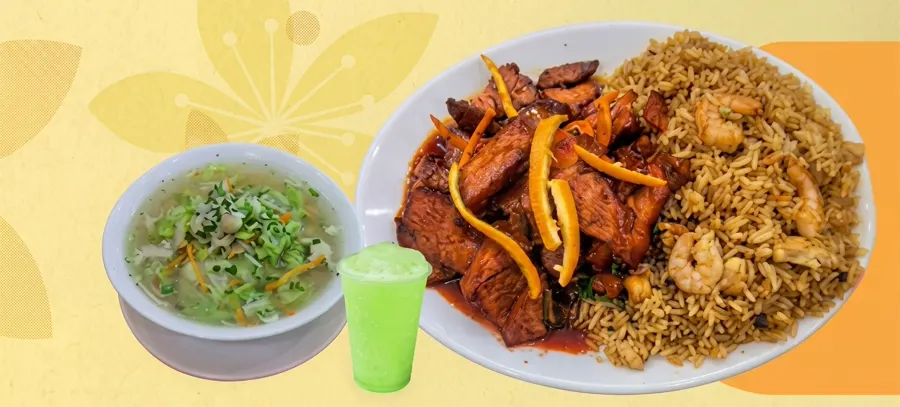
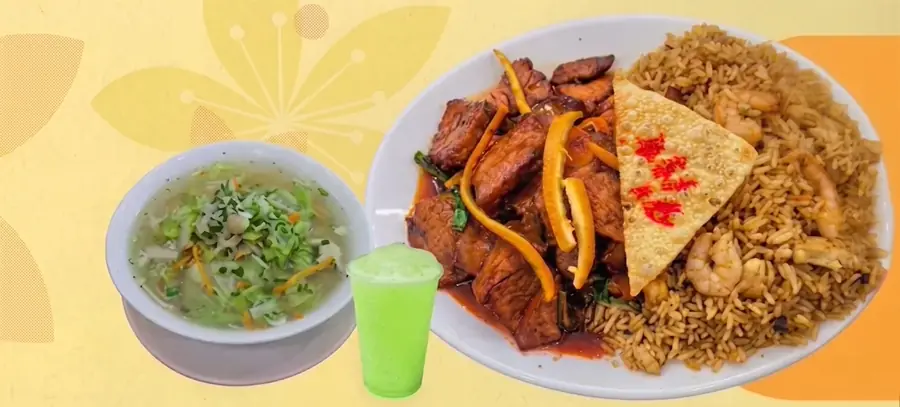
Update chifa-excelencia catalog, link basic plan demo to chifa, and add/update combo images

diff --git a/data/catalogs/chifa-excelencia.ts b/data/catalogs/chifa-excelencia.ts
@@ -70,14 +70,14 @@ export const chifaExcelencia: Catalog = {
       { id: 'combo-9', name: 'COMBO #9', price: 8.90, description: 'Consomé de pollo (o sopa wantán), Pollo agridulce, ½ Chaulafán especial, Wantán frito, Limonada (o cola).', image: '/img/combo-9.webp' },
       { id: 'combo-10', name: 'COMBO #10', price: 9.50, description: 'Consomé de pollo (o sopa wantán), Chancho en salsa de naranja, ½ Chaulafán especial, Wantán frito, Limonada (o cola).', image: '/img/combo-10.webp' },
       { id: 'combo-11', name: 'COMBO #11', price: 9.50, description: 'Consomé de pollo (o sopa wantán), Pollo en salsa de naranja, ½ Chaulafán especial, Wantán frito, Limonada (o cola).', image: '/img/combo-11.webp' },
-      { id: 'combo-12', name: 'COMBO #12', price: 9.80, description: 'Consomé de pollo (o sopa wantán), ½ Mixto especial, Wantán frito, Limonada (o cola).', image: '' },
+      { id: 'combo-12', name: 'COMBO #12', price: 9.80, description: 'Consomé de pollo (o sopa wantán), ½ Mixto especial, Wantán frito, Limonada (o cola).', image: '/img/combo12.webp' },
       { id: 'combo-13', name: 'COMBO #13', price: 13.80, description: 'Consomé de pollo (o sopa wantán), Mixto de mariscos, Wantán frito, Limonada (o cola).', image: '', badge: 'Mariscos' },
-      { id: 'combo-14', name: 'COMBO #14', price: 11.80, description: 'Consomé de pollo (o sopa wantán), Churrasco de lomo (o churrasco de pollo), Wantán frito, Limonada (o cola).', image: '' },
-      { id: 'combo-15', name: 'COMBO #15', price: 10.50, description: 'Consomé de pollo (o sopa wantán), Pollo frito 1/8, ½ Chaulafán especial, Wantán frito, Limonada (o cola).', image: '' },
-      { id: 'combo-16', name: 'COMBO #16', price: 10.50, description: 'Consomé de pollo (o sopa wantán), Alitas BBQ (o alitas en salsa agridulce), ½ Chaulafán especial, Wantán frito, Limonada (o cola).', image: '' },
-      { id: 'combo-17', name: 'COMBO #17', price: 12.50, description: 'Consomé de pollo (o sopa wantán), Pollo apanado, ½ Chaulafán especial, Wantán frito, Limonada (o cola).', image: '' },
+      { id: 'combo-14', name: 'COMBO #14', price: 11.80, description: 'Consomé de pollo (o sopa wantán), Churrasco de lomo (o churrasco de pollo), Wantán frito, Limonada (o cola).', image: '/img/combo-14.webp' },
+      { id: 'combo-15', name: 'COMBO #15', price: 10.50, description: 'Consomé de pollo (o sopa wantán), Pollo frito 1/8, ½ Chaulafán especial, Wantán frito, Limonada (o cola).', image: '/img/combo-15.webp' },
+      { id: 'combo-16', name: 'COMBO #16', price: 10.50, description: 'Consomé de pollo (o sopa wantán), Alitas BBQ (o alitas en salsa agridulce), ½ Chaulafán especial, Wantán frito, Limonada (o cola).', image: '/img/combo-16.webp' },
+      { id: 'combo-17', name: 'COMBO #17', price: 12.50, description: 'Consomé de pollo (o sopa wantán), Pollo apanado, ½ Chaulafán especial, Wantán frito, Limonada (o cola).', image: '/img/combo-17.webp' },
       { id: 'combo-18', name: 'COMBO #18', price: 12.50, description: 'Consomé de pollo (o sopa wantán), Lomo apanado, ½ Chaulafán especial, Wantán frito, Limonada (o cola).', image: '' },
-      { id: 'combo-19', name: 'COMBO #19', price: 13.80, description: 'Consomé de pollo (o sopa wantán), Camarón apanado, ½ Chaulafán especial, Wantán frito, Limonada (o cola).', image: '', badge: 'Mariscos' },
+      { id: 'combo-19', name: 'COMBO #19', price: 13.80, description: 'Consomé de pollo (o sopa wantán), Camarón apanado, ½ Chaulafán especial, Wantán frito, Limonada (o cola).', image: '/img/combo-19.webp', badge: 'Mariscos' },
       { id: 'combo-20', name: 'COMBO #20', price: 13.80, description: 'Consomé de pollo (o sopa wantán), Corvina apanada, ½ Chaulafán especial, Wantán frito, Limonada (o cola).', image: '', badge: 'Pescado' },
     ] },
 

diff --git a/components/LocationPicker.tsx b/components/LocationPicker.tsx
@@ -20,6 +20,7 @@ export function LocationPicker({ restaurantLocation, onSelect, onClose, delivery
   const routeRef   = useRef<L.Polyline | null>(null);
   const circleRef  = useRef<L.Circle | null>(null);
   const tileRef    = useRef<L.TileLayer | null>(null);
+  const labelRef   = useRef<L.TileLayer | null>(null);
   const [basemap, setBasemap] = useState<'street' | 'satellite'>('street');
   const basemapRef = useRef(basemap);
   const [picked, setPicked]   = useState<LatLng | null>(null);
@@ -36,8 +37,29 @@ export function LocationPicker({ restaurantLocation, onSelect, onClose, delivery
 
   const TILE_URLS = {
     street: 'https://basemaps.cartocdn.com/rastertiles/voyager/{z}/{x}/{y}{r}.png',
-    satellite: 'https://server.arcgisonline.com/ArcGIS/rest/services/World_Imagery/MapServer/tile/{z}/{y}/{x}',
+    satellite: 'https://clarity.maptiles.arcgis.com/arcgis/rest/services/World_Imagery/MapServer/tile/{z}/{y}/{x}',
   } as const;
+  const SATELLITE_LABELS = 'https://server.arcgisonline.com/ArcGIS/rest/services/Reference/World_Boundaries_and_Places/MapServer/tile/{z}/{y}/{x}';
+
+  const applyBasemap = () => {
+    const L = leafletMod.current;
+    const map = leafletRef.current?.map;
+    if (!L || !map) return;
+    if (tileRef.current) tileRef.current.remove();
+    if (labelRef.current) labelRef.current.remove();
+    const isSatellite = basemapRef.current === 'satellite';
+    tileRef.current = L.tileLayer(isSatellite ? TILE_URLS.satellite : TILE_URLS.street, {
+      attribution: isSatellite ? '© Esri, Maxar, Earthstar Geographics' : '© OpenStreetMap contributors © CARTO',
+      maxZoom: 19,
+    }).addTo(map);
+    // Nombres de calles y sectores sobre la imagen satelital (vista híbrida realista)
+    if (isSatellite) {
+      labelRef.current = L.tileLayer(SATELLITE_LABELS, {
+        attribution: '© Esri',
+        maxZoom: 19,
+      }).addTo(map);
+    }
+  };
 
   const setLocation = (loc: LatLng, zoom = 16) => {
     const dist = haversineKm(restaurantLocation, loc);
@@ -93,15 +115,7 @@ export function LocationPicker({ restaurantLocation, onSelect, onClose, delivery
         zoomControl: true,
       });
 
-      tileRef.current = L.tileLayer(
-        basemapRef.current === 'satellite' ? TILE_URLS.satellite : TILE_URLS.street,
-        {
-          attribution: basemapRef.current === 'satellite'
-            ? '© Esri, Maxar, Earthstar Geographics'
-            : '© OpenStreetMap contributors © CARTO',
-          maxZoom: 19,
-        }
-      ).addTo(map);
+      applyBasemap();
 
       // Marcador del restaurante (no movible)
       const restaurantIcon = L.divIcon({
@@ -158,16 +172,7 @@ export function LocationPicker({ restaurantLocation, onSelect, onClose, delivery
 
   /* ── Cambio de capa del mapa (Calles / Satélite) ── */
   useEffect(() => {
-    const L = leafletMod.current;
-    const map = leafletRef.current?.map;
-    if (!L || !map) return;
-    if (tileRef.current) tileRef.current.remove();
-    tileRef.current = L.tileLayer(basemap === 'satellite' ? TILE_URLS.satellite : TILE_URLS.street, {
-      attribution: basemap === 'satellite'
-        ? '© Esri, Maxar, Earthstar Geographics'
-        : '© OpenStreetMap contributors © CARTO',
-      maxZoom: 19,
-    }).addTo(map);
+    applyBasemap();
   // eslint-disable-next-line react-hooks/exhaustive-deps
   }, [basemap]);
 

diff --git a/data/catalogs/servicios.ts b/data/catalogs/servicios.ts
@@ -100,7 +100,7 @@ export const servicios: Catalog = {
 
   sections: [
     { name: 'Modelos de Catálogos (Elige tu favorito)', products: [
-      { id: 'plan-basico', name: 'Catálogo Lista Clásica', price: 45, deliveryDays: 'Entrega en 2–3 días', description: 'Diseño práctico y directo al grano. Carrito de pedidos que llega a tu WhatsApp al instante. Pago único, sin mensualidades. Ideal para probar el mundo digital.', image: '', badge: 'Económico', demoUrl: '/menu/demo-lista' },
+      { id: 'plan-basico', name: 'Catálogo Lista Clásica', price: 45, deliveryDays: 'Entrega en 2–3 días', description: 'Diseño práctico y directo al grano. Carrito de pedidos que llega a tu WhatsApp al instante. Pago único, sin mensualidades. Ideal para probar el mundo digital.', image: '', badge: 'Económico', demoUrl: '/menu/chifa-excelencia' },
       { id: 'plan-pro', name: 'Catálogo Libro 3D', price: 90, deliveryDays: 'Entrega en 4–5 días', description: 'Tus clientes sentirán que pasan las páginas de un menú real. Calcula costos de envío por km y se instala como App en celulares. Pago único y sin comisiones.', image: '', badge: 'El más vendido', demoUrl: '/menu/del-sol' },
       { id: 'plan-admin', name: 'Catálogo Administrable', price: 150, deliveryDays: 'Entrega en 5–7 días', description: 'El mismo catálogo premium que ves en la demo (Pinchos Del Sol), con tu logo, fotos y colores. Incluye panel en tu celular para cambiar precios o subir fotos al instante. Incluye mantenimiento de $15/mes con hosting y soporte prioritario.', image: '', badge: 'Control Total', demoUrl: '/menu/del-sol' },
     ] },
